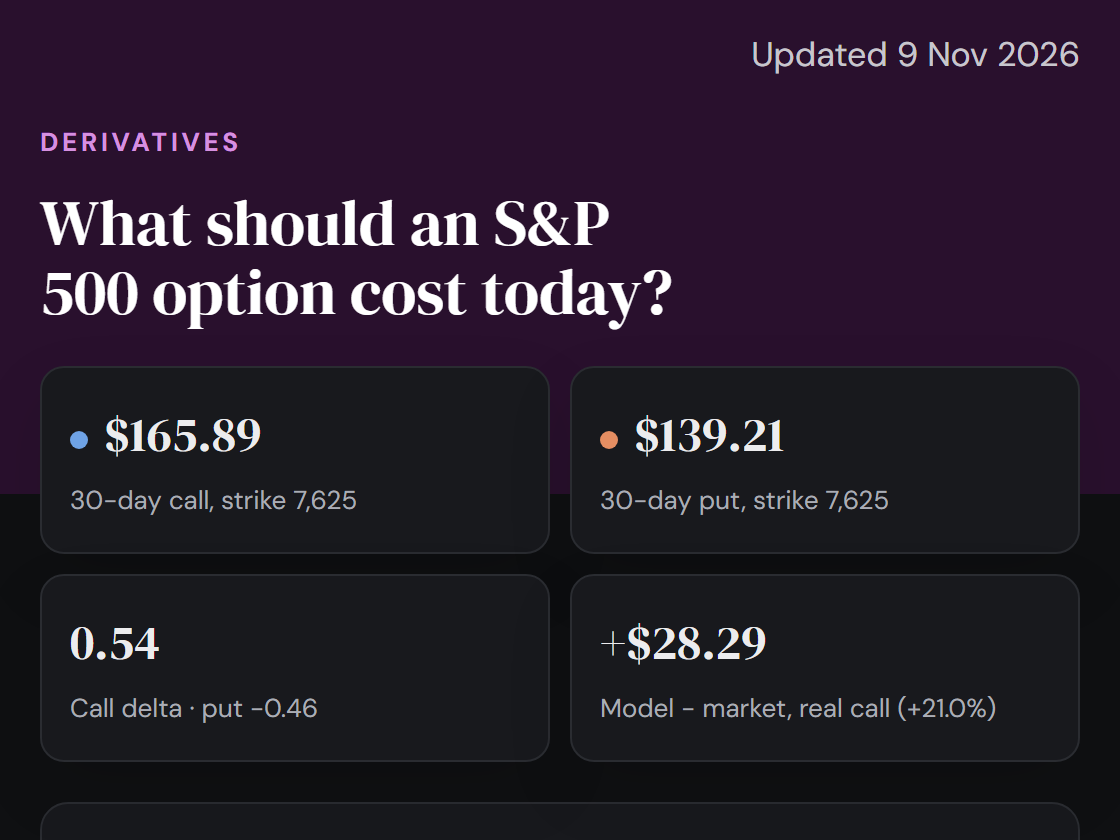
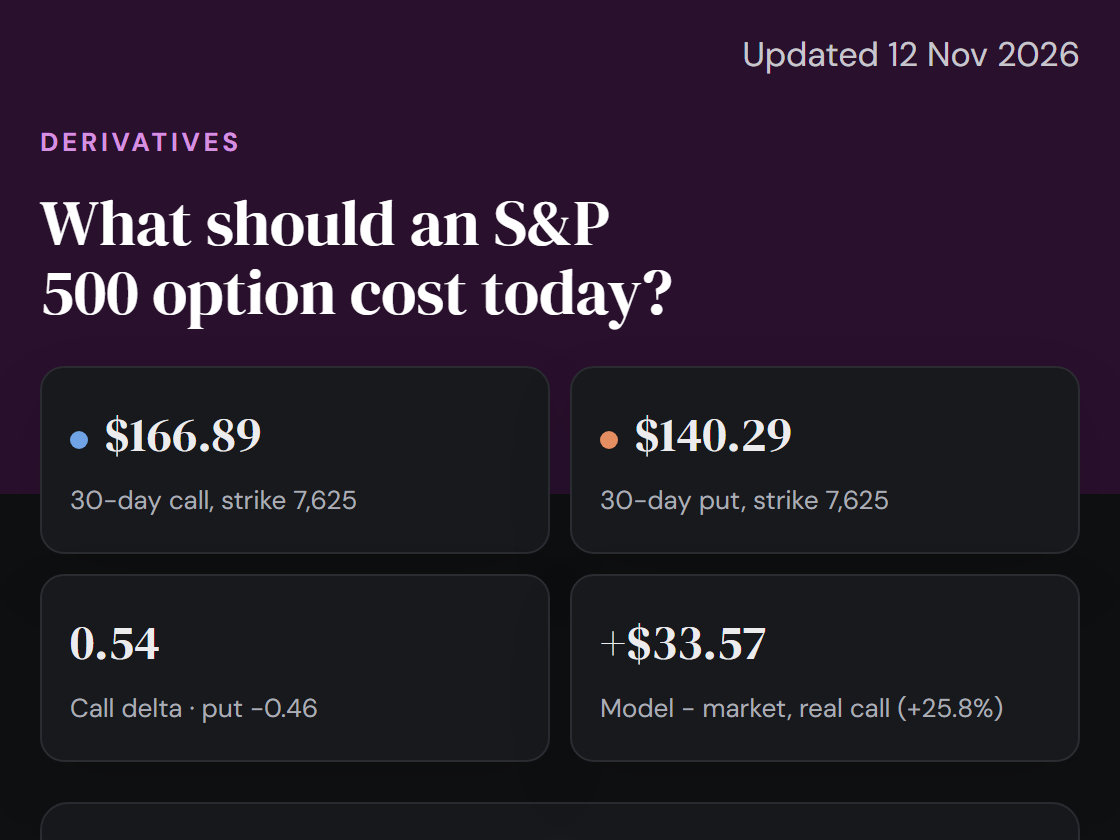
new

diff --git a/options-pricer/option_pricer.html b/options-pricer/option_pricer.html
@@ -94,26 +94,26 @@ footer .in{padding-top:20px;padding-bottom:20px}
 </head>
 <body>
 <header class="band"><div class="in">
-<div class="toprow"><a class="back" href="../index.html">&larr; Macro Quant Lab</a><span class="upd">Updated 9 Nov 2026</span></div>
+<div class="toprow"><a class="back" href="../index.html">&larr; Macro Quant Lab</a><span class="upd">Updated 12 Nov 2026</span></div>
 <p class="eyebrow">Derivatives</p>
 <h1>What should an S&amp;P 500 option cost today?</h1>
-<p class="answer"><b>About $165.89 for a call and $139.21 for a put.</b> With the S&amp;P 500 at 7,625.87, Black-Scholes prices 30-day options with a strike of 7,625 at those values, using the VIX (17.48%) as volatility and the 3-month T-bill (4.12%) as the interest rate. The real call closest to ours (strike 7,625, 29 days) trades at $134.60, so the model is $28.29 (21.0%) above it.</p>
-<p class="meta">Prices downloaded 12 Nov 2026, 13:10 New York time · Yahoo Finance · Not investment advice</p>
+<p class="answer"><b>About $166.89 for a call and $140.29 for a put.</b> With the S&amp;P 500 at 7,625.79, Black-Scholes prices 30-day options with a strike of 7,625 at those values, using the VIX (17.60%) as volatility and the 3-month T-bill (4.12%) as the interest rate. The real call closest to ours (strike 7,625, 29 days) trades at $130.30, so the model is $33.57 (25.8%) above it.</p>
+<p class="meta">Prices downloaded 12 Nov 2026, 13:14 New York time · Yahoo Finance · Not investment advice</p>
 </div></header>
 <main class="in">
-<div class="kpis top"><div class="kpi"><b><i class="dot" style="background:var(--call)"></i>$165.89</b><span>30-day call, strike 7,625</span></div><div class="kpi"><b><i class="dot" style="background:var(--put)"></i>$139.21</b><span>30-day put, strike 7,625</span></div><div class="kpi"><b>0.54</b><span>Call delta · put −0.46</span></div><div class="kpi"><b>+$28.29</b><span>Model − market, real call (+21.0%)</span></div></div>
-<section class="panel"><p class="tag">01</p><h2>What goes into the price today?</h2><p class="dek">S&amp;P 500 7,625.87, VIX 17.48%, T-bill 4.12%, 30 days.</p><p class="how"><b>How to read it.</b> Black-Scholes needs exactly five numbers. Three come from the market today (S, r and σ); two we choose: the strike (today's level rounded to the nearest 5, so the option is "at the money") and the time (30 days). The right column is each number as the formula uses it: percentages become decimals, days become years.</p><div class="scroll"><table><tr><th>Input</th><th>Today</th><th>In the formula</th></tr><tr><td>S · S&amp;P 500 level<span class="small">Yahoo ^GSPC</span></td><td>7,625.87</td><td>7625.87</td></tr><tr><td>K · Strike<span class="small">S rounded to the nearest 5</span></td><td>7,625</td><td>7625</td></tr><tr><td>r · Interest rate<span class="small">13-week T-bill, Yahoo ^IRX</span></td><td>4.12%</td><td>0.04125</td></tr><tr><td>σ · Volatility<span class="small">VIX, Yahoo ^VIX</span></td><td>17.48%</td><td>0.1748</td></tr><tr><td>T · Time to expiry<span class="small">30 days ÷ 365</span></td><td>30 days</td><td>0.0822</td></tr></table></div><div class="cpp"><div><p class="label">Paste at the top of <a href="https://github.com/ManuCem/Macro-Quant-Lab/blob/main/options-pricer/option_pricer.cpp" target="_blank" rel="noopener">option_pricer.cpp</a></p><pre class="code">double S = 7625.87;
+<div class="kpis top"><div class="kpi"><b><i class="dot" style="background:var(--call)"></i>$166.89</b><span>30-day call, strike 7,625</span></div><div class="kpi"><b><i class="dot" style="background:var(--put)"></i>$140.29</b><span>30-day put, strike 7,625</span></div><div class="kpi"><b>0.54</b><span>Call delta · put −0.46</span></div><div class="kpi"><b>+$33.57</b><span>Model − market, real call (+25.8%)</span></div></div>
+<section class="panel"><p class="tag">01</p><h2>What goes into the price today?</h2><p class="dek">S&amp;P 500 7,625.79, VIX 17.60%, T-bill 4.12%, 30 days.</p><p class="how"><b>How to read it.</b> Black-Scholes needs exactly five numbers. Three come from the market today (S, r and σ); two we choose: the strike (today's level rounded to the nearest 5, so the option is "at the money") and the time (30 days). The right column is each number as the formula uses it: percentages become decimals, days become years.</p><div class="scroll"><table><tr><th>Input</th><th>Today</th><th>In the formula</th></tr><tr><td>S · S&amp;P 500 level<span class="small">Yahoo ^GSPC</span></td><td>7,625.79</td><td>7625.79</td></tr><tr><td>K · Strike<span class="small">S rounded to the nearest 5</span></td><td>7,625</td><td>7625</td></tr><tr><td>r · Interest rate<span class="small">13-week T-bill, Yahoo ^IRX</span></td><td>4.12%</td><td>0.04125</td></tr><tr><td>σ · Volatility<span class="small">VIX, Yahoo ^VIX</span></td><td>17.60%</td><td>0.176</td></tr><tr><td>T · Time to expiry<span class="small">30 days ÷ 365</span></td><td>30 days</td><td>0.0822</td></tr></table></div><div class="cpp"><div><p class="label">Paste at the top of <a href="https://github.com/ManuCem/Macro-Quant-Lab/blob/main/options-pricer/option_pricer.cpp" target="_blank" rel="noopener">option_pricer.cpp</a></p><pre class="code">double S = 7625.79;
 double K = 7625;
 double r = 0.04125;
-double sigma = 0.1748;
-double T = 30.0 / 365.0;</pre></div><div><p class="label">It should print</p><pre class="code">Call price: 165.8880
-Put price:  139.2099
-Call delta: 0.5378</pre></div></div><p class="note">Compile and run: <code>g++ option_pricer.cpp -o option_pricer</code>, then <code>./option_pricer</code>.</p><div class="so"><p>Four of the five inputs are known for sure today. Only volatility is a guess about the future, and we borrow the market's own guess: the VIX. That makes σ the input that matters most, as panel 5 shows.</p></div></section><section class="panel"><p class="tag">02</p><h2>How does Black-Scholes turn five numbers into a price?</h2><p class="dek">Measure the distance to the strike in typical moves, then read probabilities off the bell curve.</p><p class="how"><b>How to read it.</b> Each line is one step of the formula, with today's number on the right. σ√T = 0.0501 is the typical move over 30 days: 5.0%, or about 382 index points. d1 and d2 say how many of those moves today's level sits above the strike; N() turns them into probabilities.</p><div class="steps"><div><span>σ√T</span><b>0.0501</b></div><div><span>d1 = [ln(S/K) + (r + σ²/2)·T] / σ√T</span><b>0.0950</b></div><div><span>d2 = d1 − σ√T</span><b>0.0449</b></div><div><span>N(d1), N(d2)</span><b>0.5378, 0.5179</b></div><div><span>Call = S·N(d1) − K·e^(−rT)·N(d2)</span><b>$165.89</b></div><div><span>Put = K·e^(−rT)·N(−d2) − S·N(−d1)</span><b>$139.21</b></div></div><dl class="gloss"><div><dt>Call option</dt><dd>The right, not the obligation, to buy the index at the strike on the expiry date. Worth something only if the index ends above the strike.</dd></div><div><dt>Put option</dt><dd>The right to sell at the strike. Worth something only if the index ends below the strike: it works like insurance against a fall.</dd></div><div><dt>Strike (K) and expiry (T)</dt><dd>The agreed price and the date. Here K is today&#x27;s level rounded to the nearest 5 (&quot;at the money&quot;) and T is 30 days, written in years.</dd></div><div><dt>Volatility (σ) and the VIX</dt><dd>How much the index typically moves in a year, in %. The VIX is the market&#x27;s own estimate for the next 30 days, worked out from option prices.</dd></div><div><dt>Risk-free rate (r)</dt><dd>The interest on a safe 3-month US Treasury bill. Money due at expiry is worth a little less today: K × e^(−rT).</dd></div><div><dt>N(x), the bell curve</dt><dd>The share of a normal (bell-shaped) distribution to the left of x: a probability between 0 and 1. N(0) = 0.5.</dd></div><div><dt>Delta</dt><dd>How much the option price moves when the index moves 1 point. A call delta of 0.5 means about 50 cents per point.</dd></div><div><dt>Bid, ask and mid</dt><dd>The best prices buyers offer (bid) and sellers ask (ask). The mid, halfway between, is a fair estimate of the market price.</dd></div></dl><div class="so"><p>The call is what you expect to receive, S·N(d1), minus what you expect to pay, the strike's value today times the chance of paying it, N(d2) = 0.52. With the index right at the strike these chances sit near one half, so the call and the put land close to each other; the gap that remains is mostly interest (panels 3 and 4).</p></div></section><section class="panel"><p class="tag">03</p><h2>What are a call and a put worth?</h2><p class="dek">Call $165.89, put $139.21: about 2.2% and 1.8% of the index.</p><p class="how"><b>How to read it.</b> The two lines show what the call and the put would be worth today if the S&amp;P 500 stood at another level, with every other input unchanged. The dashed line is today's level. The steepness of each line there is its delta. Prices are in index points, which are dollars per unit of the index (one real contract covers 100 units). <span class="hint">Hover over or click</span> the chart to read the values.</p><div class="kpis"><div class="kpi"><b><i class="dot" style="background:var(--call)"></i>$165.89</b><span>Call price</span></div><div class="kpi"><b><i class="dot" style="background:var(--put)"></i>$139.21</b><span>Put price</span></div><div class="kpi"><b>0.5378</b><span>Call delta</span></div><div class="kpi"><b>−0.4622</b><span>Put delta</span></div></div><div id="curve" class="chart" role="img" aria-label="Call and put value against the S&amp;P 500 level"></div><div class="so"><p>The call delta is 0.54: if the index rose 10 points the call would gain about $5.38 and the put would lose about $4.62. The call costs $26.68 more than the put: today's level is 0.87 points above the strike, and holding the strike's cash for 30 days is worth $25.81 of interest. The next panel shows why that sum is not a coincidence.</p></div></section><section class="panel"><p class="tag">04</p><h2>Do the call and the put agree with each other?</h2><p class="dek">Yes: call − put = 26.6781 and S − K·e<sup>−rT</sup> = 26.6781.</p><p class="how"><b>How to read it.</b> Put-call parity. Buying a call and selling a put with the same strike and expiry pays exactly (index − strike) at expiry, whatever happens: the same as owning the index and owing the strike. Two positions that always pay the same must cost the same today, so call − put has to equal S − K·e<sup>−rT</sup>. No volatility is involved.</p><div class="scroll"><table><tr><th>Side</th><th>Value</th></tr><tr><td>Call − put</td><td>26.6781</td></tr><tr><td>S − K·e^(−rT)</td><td>26.6781</td></tr><tr><td>Gap</td><td>0.0e+00</td></tr></table></div><div class="so"><p>The two sides match to 9 decimal places: any gap left is only the computer's rounding, so the call and put formulas are consistent with each other. If real prices broke this rule, a trader could buy the cheap side, sell the dear side and lock in a riskless profit, which is why markets keep it close (apart from dividends, which this simple version leaves out).</p></div></section><section class="panel"><p class="tag">05</p><h2>Does the model match the market?</h2><p class="dek">Model $162.89, market $134.60: the model is $28.29 (21.0%) above it.</p><p class="how"><b>How to read it.</b> The real option closest to ours: the S&amp;P 500 call with strike 7,625, 29 days from expiry. Its market price is the middle of the best bid and ask. The model is run again for this exact strike and number of days, with the same S, r and σ, so the two prices describe the same contract.</p><div class="scroll"><table><tr><th>Real call</th><th>Value</th></tr><tr><td>Contract</td><td>SPXW261211C07625000</td></tr><tr><td>Strike · expiry</td><td>7,625 · 11 Dec 2026 (29 days)</td></tr><tr><td>Bid · ask</td><td>$134.30 · $134.90</td></tr><tr><td>Market price (mid)</td><td>$134.60</td></tr><tr><td>Model price (same strike and days)</td><td>$162.89</td></tr><tr><td>Model − market</td><td>+$28.29 (+21.0%)</td></tr></table></div><div class="so"><p><b>The model is too expensive, and the volatility input is the main suspect.</b> The VIX is not the volatility of this one option: it is an average over many strikes, and it leans on puts far below today's level, which are expensive because investors pay up for crash protection. So the VIX usually sits above the volatility traders price into an at-the-money option. A lower σ would bring the model down to the market.</p><p>Leaving out dividends pushes the same way: the companies in the index pay dividends, which lower the expected future level of the index, and so make calls cheaper and puts dearer than this simple version says.</p></div></section><section class="panel"><p class="tag">06</p><h2>What did we learn?</h2><p class="dek">Takeaways, then the limits.</p><ol class="take"><li><b>Five numbers set the price.</b> S&amp;P 500 7,625.87, strike 7,625, rate 0.04125, volatility 0.1748 and 30 days give a call of $165.89 and a put of $139.21: about 2.2% and 1.8% of the index for a month of protection.</li><li><b>Delta is the slope of the price line.</b> The call moves about 0.54 and the put −0.46 for each point the index moves. The two always differ by exactly 1.</li><li><b>Parity holds to 9 decimal places.</b> Call − put equals S − K·e<sup>−rT</sup>, as it must for any pricing that leaves no free money on the table. It is a check on the formulas, not on the market.</li><li><b>The market disagrees.</b> For the closest real call the model is $28.29 (21.0%) above it. The model is only as good as its volatility input.</li><li><b>Limits.</b> One snapshot on one day, with Yahoo's quotes, which can be delayed by about 15 minutes. Black-Scholes assumes volatility and interest rates stay constant and that the index never jumps; real markets break all three. The VIX is used as a proxy for this option's volatility, dividends are left out, and the T-bill rate is used as quoted, without converting it to continuous compounding.</li></ol></section><aside class="refs" aria-label="References"><h3>References</h3><ul><li><a href="https://finance.yahoo.com/quote/%5ESPX/options/" target="_blank" rel="noopener"><span><b>Yahoo Finance</b>: S&amp;P 500 index (^GSPC), 13-week Treasury bill yield (^IRX), VIX (^VIX) and the S&amp;P 500 option chain (^SPX), downloaded with yfinance.</span></a></li><li><a href="https://www.jstor.org/stable/1831029" target="_blank" rel="noopener"><span><b>Black and Scholes (1973)</b>: The Pricing of Options and Corporate Liabilities, Journal of Political Economy, the paper behind the formula.</span></a></li><li><a href="https://www.cboe.com/tradable_products/vix/" target="_blank" rel="noopener"><span><b>Cboe</b>: how the VIX is calculated from a whole range of S&amp;P 500 option prices.</span></a></li></ul></aside>
+double sigma = 0.176;
+double T = 30.0 / 365.0;</pre></div><div><p class="label">It should print</p><pre class="code">Call price: 166.8870
+Put price:  140.2888
+Call delta: 0.5376</pre></div></div><p class="note">Compile and run: <code>g++ option_pricer.cpp -o option_pricer</code>, then <code>./option_pricer</code>.</p><div class="so"><p>Four of the five inputs are known for sure today. Only volatility is a guess about the future, and we borrow the market's own guess: the VIX. That makes σ the input that matters most, as panel 5 shows.</p></div></section><section class="panel"><p class="tag">02</p><h2>How does Black-Scholes turn five numbers into a price?</h2><p class="dek">Measure the distance to the strike in typical moves, then read probabilities off the bell curve.</p><p class="how"><b>How to read it.</b> Each line is one step of the formula, with today's number on the right. σ√T = 0.0505 is the typical move over 30 days: 5.0%, or about 385 index points. d1 and d2 say how many of those moves today's level sits above the strike; N() turns them into probabilities.</p><div class="steps"><div><span>σ√T</span><b>0.0505</b></div><div><span>d1 = [ln(S/K) + (r + σ²/2)·T] / σ√T</span><b>0.0945</b></div><div><span>d2 = d1 − σ√T</span><b>0.0440</b></div><div><span>N(d1), N(d2)</span><b>0.5376, 0.5176</b></div><div><span>Call = S·N(d1) − K·e^(−rT)·N(d2)</span><b>$166.89</b></div><div><span>Put = K·e^(−rT)·N(−d2) − S·N(−d1)</span><b>$140.29</b></div></div><dl class="gloss"><div><dt>Call option</dt><dd>The right, not the obligation, to buy the index at the strike on the expiry date. Worth something only if the index ends above the strike.</dd></div><div><dt>Put option</dt><dd>The right to sell at the strike. Worth something only if the index ends below the strike: it works like insurance against a fall.</dd></div><div><dt>Strike (K) and expiry (T)</dt><dd>The agreed price and the date. Here K is today&#x27;s level rounded to the nearest 5 (&quot;at the money&quot;) and T is 30 days, written in years.</dd></div><div><dt>Volatility (σ) and the VIX</dt><dd>How much the index typically moves in a year, in %. The VIX is the market&#x27;s own estimate for the next 30 days, worked out from option prices.</dd></div><div><dt>Risk-free rate (r)</dt><dd>The interest on a safe 3-month US Treasury bill. Money due at expiry is worth a little less today: K × e^(−rT).</dd></div><div><dt>N(x), the bell curve</dt><dd>The share of a normal (bell-shaped) distribution to the left of x: a probability between 0 and 1. N(0) = 0.5.</dd></div><div><dt>Delta</dt><dd>How much the option price moves when the index moves 1 point. A call delta of 0.5 means about 50 cents per point.</dd></div><div><dt>Bid, ask and mid</dt><dd>The best prices buyers offer (bid) and sellers ask (ask). The mid, halfway between, is a fair estimate of the market price.</dd></div></dl><div class="so"><p>The call is what you expect to receive, S·N(d1), minus what you expect to pay, the strike's value today times the chance of paying it, N(d2) = 0.52. With the index right at the strike these chances sit near one half, so the call and the put land close to each other; the gap that remains is mostly interest (panels 3 and 4).</p></div></section><section class="panel"><p class="tag">03</p><h2>What are a call and a put worth?</h2><p class="dek">Call $166.89, put $140.29: about 2.2% and 1.8% of the index.</p><p class="how"><b>How to read it.</b> The two lines show what the call and the put would be worth today if the S&amp;P 500 stood at another level, with every other input unchanged. The dashed line is today's level. The steepness of each line there is its delta. Prices are in index points, which are dollars per unit of the index (one real contract covers 100 units). <span class="hint">Hover over or click</span> the chart to read the values.</p><div class="kpis"><div class="kpi"><b><i class="dot" style="background:var(--call)"></i>$166.89</b><span>Call price</span></div><div class="kpi"><b><i class="dot" style="background:var(--put)"></i>$140.29</b><span>Put price</span></div><div class="kpi"><b>0.5376</b><span>Call delta</span></div><div class="kpi"><b>−0.4624</b><span>Put delta</span></div></div><div id="curve" class="chart" role="img" aria-label="Call and put value against the S&amp;P 500 level"></div><div class="so"><p>The call delta is 0.54: if the index rose 10 points the call would gain about $5.38 and the put would lose about $4.62. The call costs $26.60 more than the put: today's level is 0.79 points above the strike, and holding the strike's cash for 30 days is worth $25.81 of interest. The next panel shows why that sum is not a coincidence.</p></div></section><section class="panel"><p class="tag">04</p><h2>Do the call and the put agree with each other?</h2><p class="dek">Yes: call − put = 26.5981 and S − K·e<sup>−rT</sup> = 26.5981.</p><p class="how"><b>How to read it.</b> Put-call parity. Buying a call and selling a put with the same strike and expiry pays exactly (index − strike) at expiry, whatever happens: the same as owning the index and owing the strike. Two positions that always pay the same must cost the same today, so call − put has to equal S − K·e<sup>−rT</sup>. No volatility is involved.</p><div class="scroll"><table><tr><th>Side</th><th>Value</th></tr><tr><td>Call − put</td><td>26.5981</td></tr><tr><td>S − K·e^(−rT)</td><td>26.5981</td></tr><tr><td>Gap</td><td>0.0e+00</td></tr></table></div><div class="so"><p>The two sides match to 9 decimal places: any gap left is only the computer's rounding, so the call and put formulas are consistent with each other. If real prices broke this rule, a trader could buy the cheap side, sell the dear side and lock in a riskless profit, which is why markets keep it close (apart from dividends, which this simple version leaves out).</p></div></section><section class="panel"><p class="tag">05</p><h2>Does the model match the market?</h2><p class="dek">Model $163.87, market $130.30: the model is $33.57 (25.8%) above it.</p><p class="how"><b>How to read it.</b> The real option closest to ours: the S&amp;P 500 call with strike 7,625, 29 days from expiry. Its market price is the middle of the best bid and ask. The model is run again for this exact strike and number of days, with the same S, r and σ, so the two prices describe the same contract.</p><div class="scroll"><table><tr><th>Real call</th><th>Value</th></tr><tr><td>Contract</td><td>SPXW261211C07625000</td></tr><tr><td>Strike · expiry</td><td>7,625 · 11 Dec 2026 (29 days)</td></tr><tr><td>Bid · ask</td><td>$130.00 · $130.60</td></tr><tr><td>Market price (mid)</td><td>$130.30</td></tr><tr><td>Model price (same strike and days)</td><td>$163.87</td></tr><tr><td>Model − market</td><td>+$33.57 (+25.8%)</td></tr></table></div><div class="so"><p><b>The model is too expensive, and the volatility input is the main suspect.</b> The VIX is not the volatility of this one option: it is an average over many strikes, and it leans on puts far below today's level, which are expensive because investors pay up for crash protection. So the VIX usually sits above the volatility traders price into an at-the-money option. A lower σ would bring the model down to the market.</p><p>Leaving out dividends pushes the same way: the companies in the index pay dividends, which lower the expected future level of the index, and so make calls cheaper and puts dearer than this simple version says.</p></div></section><section class="panel"><p class="tag">06</p><h2>What did we learn?</h2><p class="dek">Takeaways, then the limits.</p><ol class="take"><li><b>Five numbers set the price.</b> S&amp;P 500 7,625.79, strike 7,625, rate 0.04125, volatility 0.176 and 30 days give a call of $166.89 and a put of $140.29: about 2.2% and 1.8% of the index for a month of protection.</li><li><b>Delta is the slope of the price line.</b> The call moves about 0.54 and the put −0.46 for each point the index moves. The two always differ by exactly 1.</li><li><b>Parity holds to 9 decimal places.</b> Call − put equals S − K·e<sup>−rT</sup>, as it must for any pricing that leaves no free money on the table. It is a check on the formulas, not on the market.</li><li><b>The market disagrees.</b> For the closest real call the model is $33.57 (25.8%) above it. The model is only as good as its volatility input.</li><li><b>Limits.</b> One snapshot on one day, with Yahoo's quotes, which can be delayed by about 15 minutes. Black-Scholes assumes volatility and interest rates stay constant and that the index never jumps; real markets break all three. The VIX is used as a proxy for this option's volatility, dividends are left out, and the T-bill rate is used as quoted, without converting it to continuous compounding.</li></ol></section><aside class="refs" aria-label="References"><h3>References</h3><ul><li><a href="https://finance.yahoo.com/quote/%5ESPX/options/" target="_blank" rel="noopener"><span><b>Yahoo Finance</b>: S&amp;P 500 index (^GSPC), 13-week Treasury bill yield (^IRX), VIX (^VIX) and the S&amp;P 500 option chain (^SPX), downloaded with yfinance.</span></a></li><li><a href="https://www.jstor.org/stable/1831029" target="_blank" rel="noopener"><span><b>Black and Scholes (1973)</b>: The Pricing of Options and Corporate Liabilities, Journal of Political Economy, the paper behind the formula.</span></a></li><li><a href="https://www.cboe.com/tradable_products/vix/" target="_blank" rel="noopener"><span><b>Cboe</b>: how the VIX is calculated from a whole range of S&amp;P 500 option prices.</span></a></li></ul></aside>
 </main>
 <footer><div class="in">Generated by option_pricer.py from Yahoo Finance data (S&amp;P 500 ^GSPC, 13-week T-bill ^IRX, VIX ^VIX,
 S&amp;P 500 options ^SPX). The same Black-Scholes maths is in option_pricer.cpp. Learning project, not investment advice.</div></footer>
 <script>
-const DATA = {"S": 7625.87, "curve": {"sp500": [6863.28, 6888.7, 6914.12, 6939.54, 6964.96, 6990.38, 7015.8, 7041.22, 7066.64, 7092.06, 7117.48, 7142.9, 7168.32, 7193.74, 7219.16, 7244.58, 7270.0, 7295.42, 7320.84, 7346.25, 7371.67, 7397.09, 7422.51, 7447.93, 7473.35, 7498.77, 7524.19, 7549.61, 7575.03, 7600.45, 7625.87, 7651.29, 7676.71, 7702.13, 7727.55, 7752.97, 7778.39, 7803.81, 7829.23, 7854.65, 7880.07, 7905.49, 7930.9, 7956.32, 7981.74, 8007.16, 8032.58, 8058.0, 8083.42, 8108.84, 8134.26, 8159.68, 8185.1, 8210.52, 8235.94, 8261.36, 8286.78, 8312.2, 8337.62, 8363.04, 8388.46], "call": [2.81, 3.44, 4.17, 5.04, 6.06, 7.25, 8.63, 10.22, 12.05, 14.15, 16.53, 19.24, 22.29, 25.72, 29.55, 33.81, 38.53, 43.74, 49.47, 55.74, 62.58, 70.01, 78.05, 86.71, 96.02, 105.98, 116.61, 127.91, 139.89, 152.55, 165.89, 179.89, 194.56, 209.89, 225.85, 242.43, 259.62, 277.4, 295.75, 314.63, 334.03, 353.93, 374.29, 395.1, 416.32, 437.92, 459.89, 482.2, 504.82, 527.73, 550.91, 574.33, 597.97, 621.81, 645.84, 670.03, 694.37, 718.84, 743.43, 768.13, 792.93], "put": [738.72, 713.92, 689.24, 664.69, 640.29, 616.06, 592.02, 568.19, 544.6, 521.28, 498.25, 475.53, 453.16, 431.17, 409.58, 388.42, 367.73, 347.52, 327.83, 308.68, 290.1, 272.11, 254.72, 237.97, 221.86, 206.4, 191.61, 177.49, 164.06, 151.29, 139.21, 127.8, 117.05, 106.95, 97.49, 88.66, 80.43, 72.79, 65.71, 59.18, 53.16, 47.64, 42.58, 37.96, 33.76, 29.95, 26.5, 23.39, 20.59, 18.09, 15.84, 13.84, 12.06, 10.48, 9.09, 7.86, 6.78, 5.84, 5.01, 4.29, 3.66]}};                                          // everything Python computed, as JSON
+const DATA = {"S": 7625.79, "curve": {"sp500": [6863.21, 6888.63, 6914.05, 6939.47, 6964.89, 6990.31, 7015.73, 7041.15, 7066.57, 7091.98, 7117.4, 7142.82, 7168.24, 7193.66, 7219.08, 7244.5, 7269.92, 7295.34, 7320.76, 7346.18, 7371.6, 7397.02, 7422.44, 7447.85, 7473.27, 7498.69, 7524.11, 7549.53, 7574.95, 7600.37, 7625.79, 7651.21, 7676.63, 7702.05, 7727.47, 7752.89, 7778.31, 7803.73, 7829.14, 7854.56, 7879.98, 7905.4, 7930.82, 7956.24, 7981.66, 8007.08, 8032.5, 8057.92, 8083.34, 8108.76, 8134.18, 8159.6, 8185.01, 8210.43, 8235.85, 8261.27, 8286.69, 8312.11, 8337.53, 8362.95, 8388.37], "call": [2.94, 3.58, 4.34, 5.23, 6.28, 7.49, 8.9, 10.53, 12.4, 14.53, 16.96, 19.7, 22.8, 26.27, 30.14, 34.44, 39.21, 44.46, 50.23, 56.54, 63.42, 70.88, 78.94, 87.64, 96.97, 106.95, 117.59, 128.91, 140.89, 153.56, 166.89, 180.89, 195.54, 210.85, 226.79, 243.35, 260.52, 278.26, 296.57, 315.42, 334.79, 354.64, 374.97, 395.73, 416.91, 438.47, 460.4, 482.67, 505.25, 528.13, 551.26, 574.65, 598.25, 622.06, 646.06, 670.22, 694.53, 718.98, 743.55, 768.23, 793.0], "put": [738.92, 714.14, 689.48, 664.95, 640.58, 616.38, 592.37, 568.58, 545.03, 521.74, 498.75, 476.07, 453.75, 431.8, 410.25, 389.13, 368.48, 348.32, 328.67, 309.56, 291.01, 273.05, 255.7, 238.97, 222.88, 207.45, 192.67, 178.57, 165.14, 152.38, 140.29, 128.87, 118.11, 107.99, 98.52, 89.66, 81.4, 73.73, 66.62, 60.05, 54.0, 48.43, 43.34, 38.68, 34.44, 30.59, 27.1, 23.95, 21.11, 18.56, 16.28, 14.24, 12.43, 10.82, 9.4, 8.14, 7.03, 6.06, 5.21, 4.47, 3.82]}};                                          // everything Python computed, as JSON
 const narrowMQ = window.matchMedia("(max-width: 640px)");       // true on a phone-width screen
 const darkMQ = window.matchMedia("(prefers-color-scheme: dark)");   // true in dark mode
 const isTouch = window.matchMedia("(pointer: coarse)").matches; // a finger instead of a mouse

diff --git a/options-pricer/option_pricer.py b/options-pricer/option_pricer.py
@@ -264,7 +264,7 @@ def main():
 
 ECHARTS_URL = "https://cdn.jsdelivr.net/npm/echarts@5.5.1/dist/echarts.min.js"  # Apache ECharts, a fixed version
 FONTS_URL = "https://fonts.googleapis.com/css2?family=DM+Serif+Display&family=DM+Sans:wght@400;500;700&display=swap"
-UPDATED = "9 Nov 2026"                   # the date this study was last changed (new, not committed yet); after a commit, re-read it with
+UPDATED = "12 Nov 2026"                   # the date this study was last changed (new, not committed yet); after a commit, re-read it with
                                           # git log -1 --format=%cs -- options-pricer
 CPP_URL = "https://github.com/ManuCem/Macro-Quant-Lab/blob/main/options-pricer/option_pricer.cpp"   # the C++ file on GitHub
 
